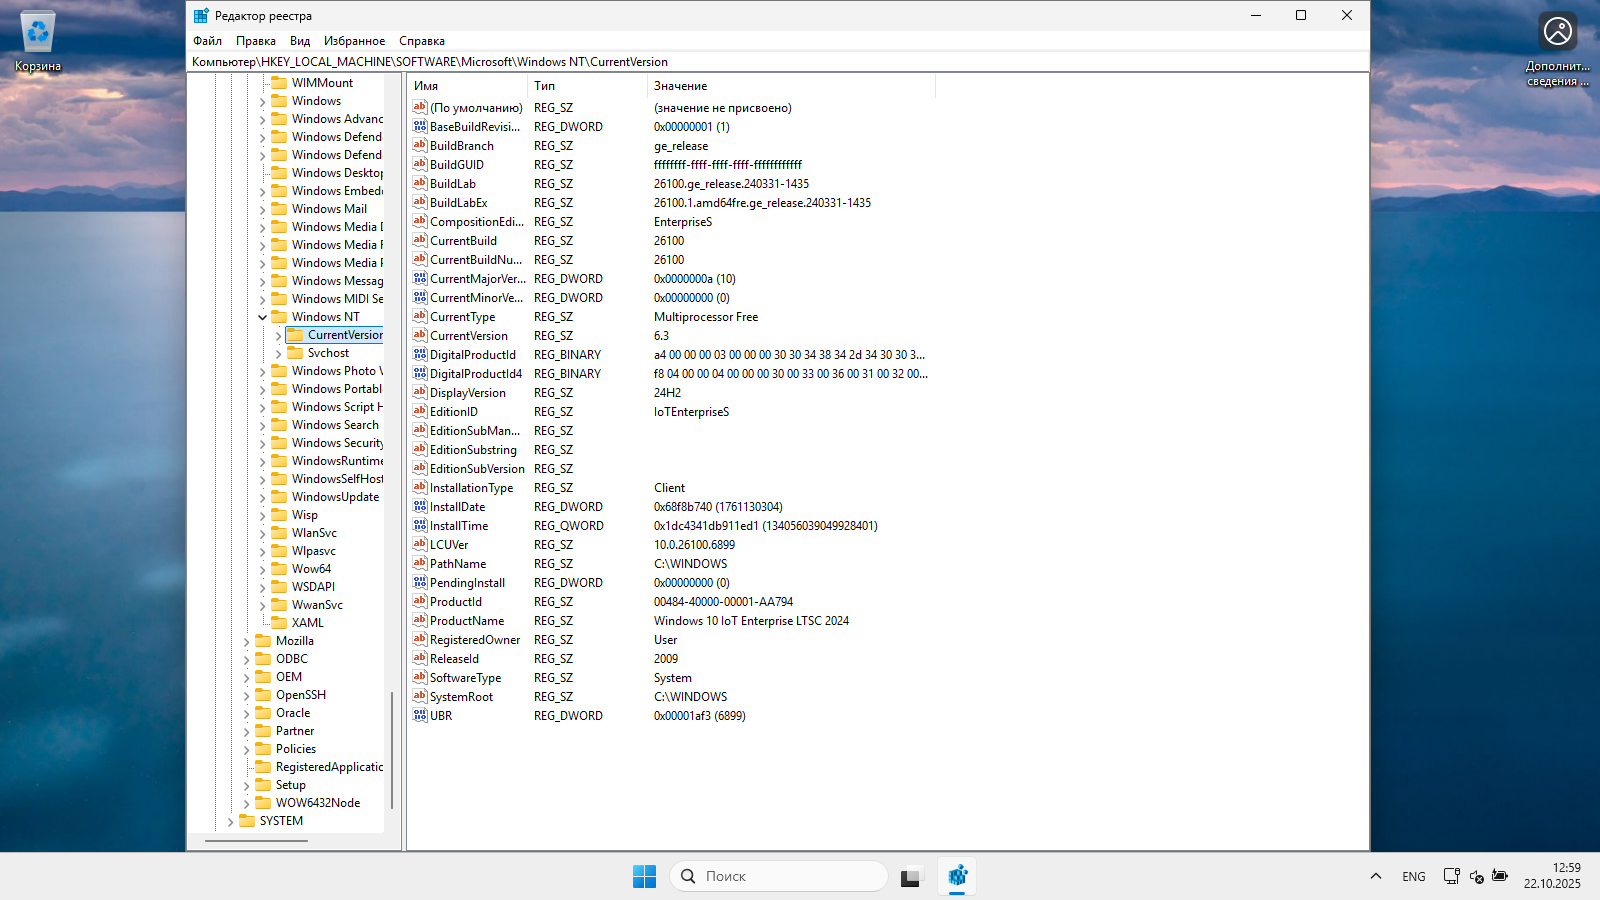
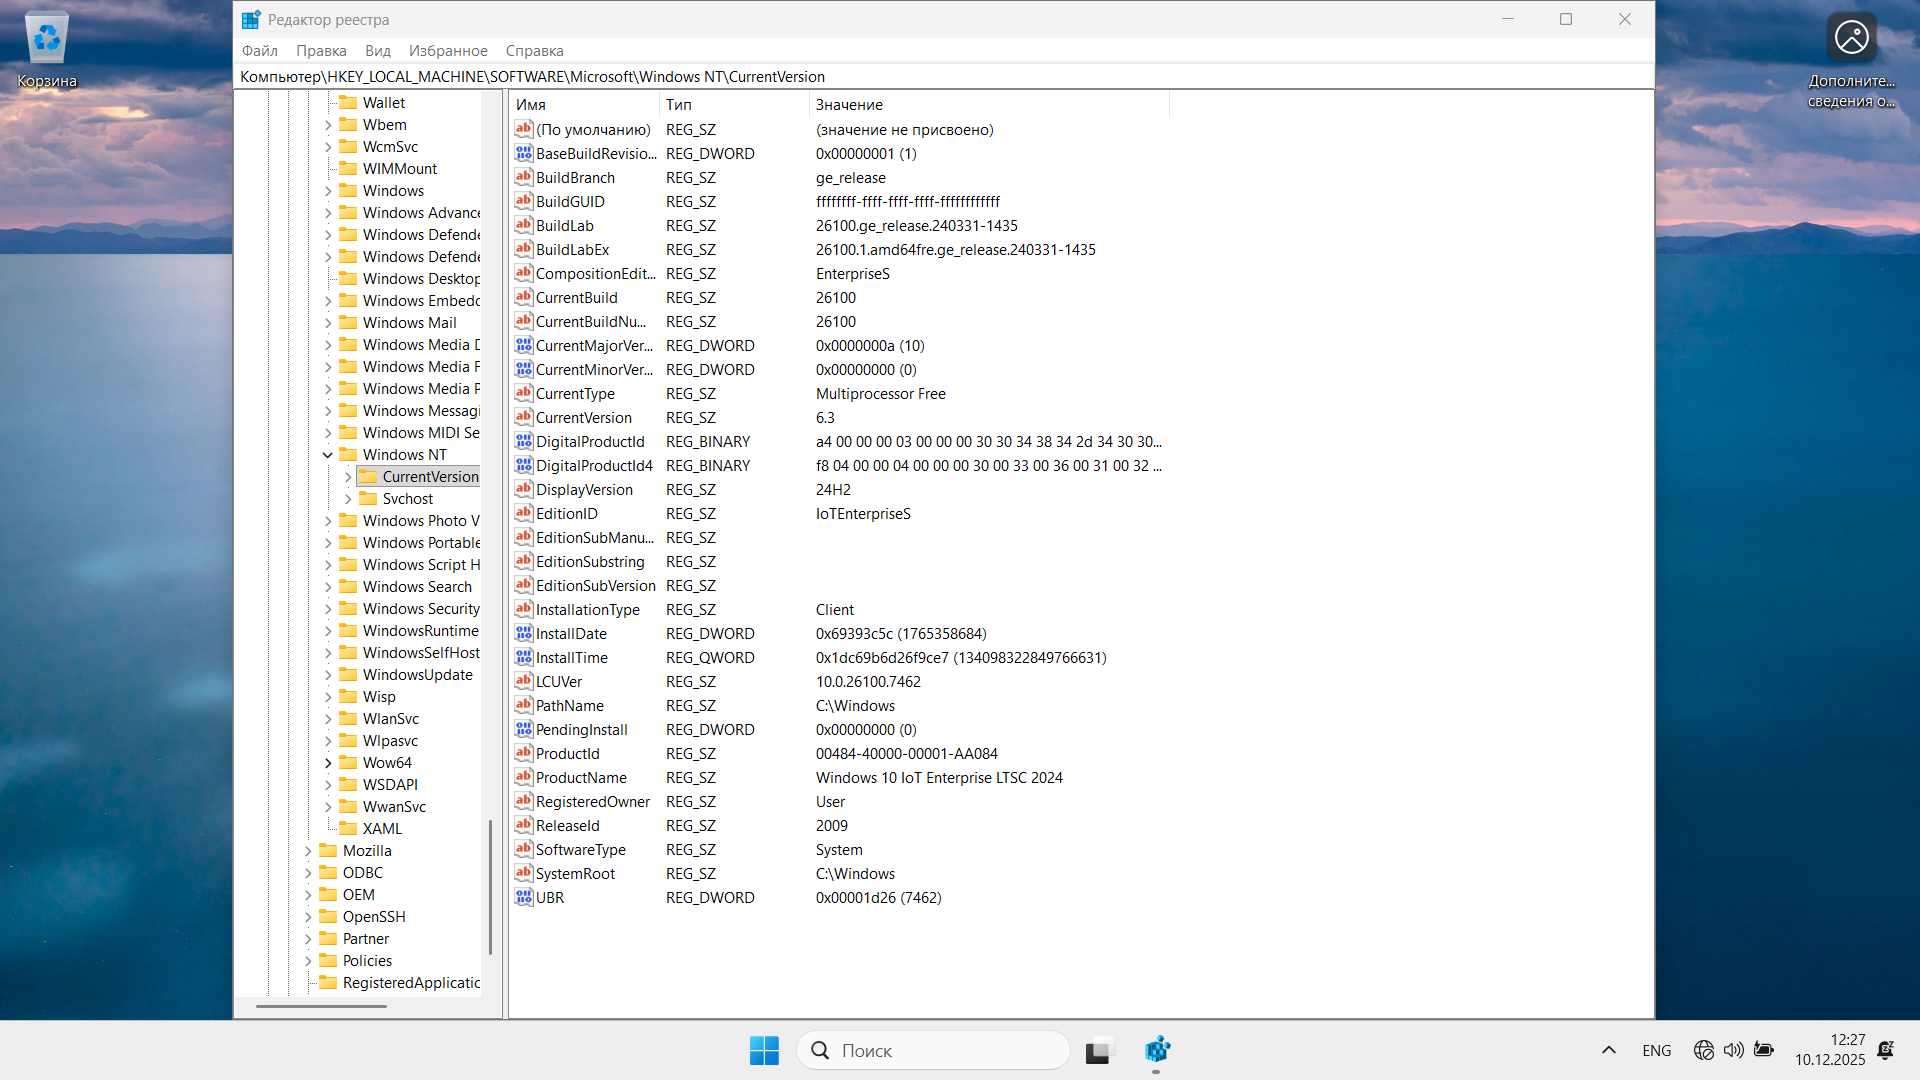
update

Changed region(s): [[0.0, 0.0, 1.0, 0.9956], [0.9375, 0.0, 1.0, 0.1244], [0.0, 0.0, 0.0312, 0.0933]]

diff --git a/index.html b/index.html
@@ -64,7 +64,7 @@
             </a>
             <div class="card-details">
               <span class="lang-en">Language: English<br></span><span class="lang-ru">Язык: Английский<br></span>
-              <span class="lang-en">Update: 26100.6899 (October 2025)<br></span><span class="lang-ru">Обновление: 26100.6899 (Октябрь 2025)<br></span>
+              <span class="lang-en">Update: 26100.7462 (December 2025)<br></span><span class="lang-ru">Обновление: 26100.7462 (Декабрь 2025)<br></span>
               <span class="lang-en">Edition: IoT Enterprise LTSC<br></span><span class="lang-ru">Издание: IoT Enterprise LTSC<br></span>
               <span class="lang-en">Version: 24H2<br></span><span class="lang-ru">Версия: 24H2<br></span>
               <span class="lang-en">Author: somov<br></span><span class="lang-ru">Автор: somov<br></span>
@@ -77,8 +77,8 @@
         </div>
         <div class="card-right">
           <div class="card-actions">
-            <a class="btn" href="https://dl3.somov.org/en-us_windows_11_iot_enterprise_ltsc_2024_x64_26100.6899_by_somov.iso"><span class="lang-en">Download</span><span class="lang-ru">Скачать</span></a>
-            <a class="torrent-link" href="https://dl.somov.org/en-us_windows_11_iot_enterprise_ltsc_2024_x64_26100.6899_by_somov.iso.torrent"><span class="lang-en">Download by torrent</span><span class="lang-ru">Скачать с помощью torrent</span></a>
+            <a class="btn" href="https://dl3.somov.org/en-us_windows_11_iot_enterprise_ltsc_2024_x64_26100.7462_by_somov.iso"><span class="lang-en">Download</span><span class="lang-ru">Скачать</span></a>
+            <a class="torrent-link" href="https://dl.somov.org/en-us_windows_11_iot_enterprise_ltsc_2024_x64_26100.7462_by_somov.iso.torrent"><span class="lang-en">Download by torrent</span><span class="lang-ru">Скачать с помощью torrent</span></a>
           </div>
         </div>
       </section>
@@ -92,7 +92,7 @@
             </a>
             <div class="card-details">
               <span class="lang-en">Language: Russian<br></span><span class="lang-ru">Язык: Русский<br></span>
-              <span class="lang-en">Update: 26100.6899 (October 2025)<br></span><span class="lang-ru">Обновление: 26100.6899 (Октябрь 2025)<br></span>
+              <span class="lang-en">Update: 26100.7462 (December 2025)<br></span><span class="lang-ru">Обновление: 26100.7462 (Декабрь 2025)<br></span>
               <span class="lang-en">Edition: IoT Enterprise LTSC<br></span><span class="lang-ru">Издание: IoT Enterprise LTSC<br></span>
               <span class="lang-en">Version: 24H2<br></span><span class="lang-ru">Версия: 24H2<br></span>
               <span class="lang-en">Author: somov<br></span><span class="lang-ru">Автор: somov<br></span>
@@ -105,8 +105,8 @@
         </div>
         <div class="card-right">
           <div class="card-actions">
-            <a class="btn" href="https://dl3.somov.org/ru-ru_windows_11_iot_enterprise_ltsc_2024_x64_26100.6899_by_somov.iso"><span class="lang-en">Download</span><span class="lang-ru">Скачать</span></a>
-            <a class="torrent-link" href="https://dl.somov.org/ru-ru_windows_11_iot_enterprise_ltsc_2024_x64_26100.6899_by_somov.iso.torrent"><span class="lang-en">Download by torrent</span><span class="lang-ru">Скачать с помощью torrent</span></a>
+            <a class="btn" href="https://dl3.somov.org/ru-ru_windows_11_iot_enterprise_ltsc_2024_x64_26100.7462_by_somov.iso"><span class="lang-en">Download</span><span class="lang-ru">Скачать</span></a>
+            <a class="torrent-link" href="https://dl.somov.org/ru-ru_windows_11_iot_enterprise_ltsc_2024_x64_26100.7462_by_somov.iso.torrent"><span class="lang-en">Download by torrent</span><span class="lang-ru">Скачать с помощью torrent</span></a>
           </div>
         </div>
       </section>
@@ -120,7 +120,7 @@
             </a>
             <div class="card-details">
               <span class="lang-en">Language: English<br></span><span class="lang-ru">Язык: Английский<br></span>
-              <span class="lang-en">Update: 19044.6456 (October 2025)<br></span><span class="lang-ru">Обновление: 19044.6456 (Октябрь 2025)<br></span>
+              <span class="lang-en">Update: 19044.6456 (October 2025) <b>Final</b><br></span><span class="lang-ru">Обновление: 19044.6456 (Октябрь 2025) <b>Финальный</b><br></span>
               <span class="lang-en">Edition: IoT Enterprise LTSC<br></span><span class="lang-ru">Издание: IoT Enterprise LTSC<br></span>
               <span class="lang-en">Version: 21H2<br></span><span class="lang-ru">Версия: 21H2<br></span>
               <span class="lang-en">Author: somov<br></span><span class="lang-ru">Автор: somov<br></span>
@@ -148,7 +148,7 @@
             </a>
             <div class="card-details">
               <span class="lang-en">Language: Russian<br></span><span class="lang-ru">Язык: Русский<br></span>
-              <span class="lang-en">Update: 19044.6456 (October 2025)<br></span><span class="lang-ru">Обновление: 19044.6456 (Октябрь 2025)<br></span>
+              <span class="lang-en">Update: 19044.6456 (October 2025)<b>Final</b><br></span><span class="lang-ru">Обновление: 19044.6456 (Октябрь 2025)<b>Финальный</b><br></span>
               <span class="lang-en">Edition: IoT Enterprise LTSC<br></span><span class="lang-ru">Издание: IoT Enterprise LTSC<br></span>
               <span class="lang-en">Version: 21H2<br></span><span class="lang-ru">Версия: 21H2<br></span>
               <span class="lang-en">Author: somov<br></span><span class="lang-ru">Автор: somov<br></span>

diff --git a/windows-11-en/index.html b/windows-11-en/index.html
@@ -52,7 +52,7 @@
             <div class="card-text"><a href="/" class="return-link"><span class="lang-en"><b>Return to Home</b></span><span class="lang-ru"><b>Вернуться на главную</b></span></a></div>
             <div class="card-text"><span class="lang-en">Language: English</span><span class="lang-ru">Язык: Английский</span></div>
             <div class="card-text"><span class="lang-en">Windows 11 IoT Enterprise LTSC (Long-Term Servicing Channel) is a lightweight version of Windows with long-term support, designed for stable performance on embedded devices and specialized systems. It excludes unnecessary apps, reducing system requirements and making it an ideal solution where reliability and minimal interference are critical.</span><span class="lang-ru">Windows 11 IoT Enterprise LTSC (Long-Term Servicing Channel) — это облегченная версия Windows с долгосрочной поддержкой, разработанная для стабильной работы на встраиваемых устройствах и специализированных системах. Она исключает ненужные приложения, снижая системные требования и делая ее идеальным решением там, где критически важны надежность и минимальное вмешательство.</span></div>
-            <div class="updated"><span class="lang-en"><b>TPM, Secure Boot, and OOBE checks are disabled,<br>Updated to 26100.6899 (October 2025) by somov</b></span><span class="lang-ru"><b>Проверки TPM, Secure Boot и OOBE отключены,<br>Обновлено до 26100.6899 (Октябрь 2025) by somov</b></span></div>
+            <div class="updated"><span class="lang-en"><b>TPM, Secure Boot, and OOBE checks are disabled,<br>Updated to 26100.7462 (December 2025) by somov</b></span><span class="lang-ru"><b>Проверки TPM, Secure Boot и OOBE отключены,<br>Обновлено до 26100.7462 (Декабрь 2025) by somov</b></span></div>
             <div class="card-text"><span class="lang-en"><b>System Requirements:</b></span><span class="lang-ru"><b>Системные требования:</b></span></div>
             <div class="card-text">
               <ol class="marker-list">
@@ -65,13 +65,13 @@
             </div>
             <div class="card-text"><span class="lang-en"><b>Image checksums:</b></span><span class="lang-ru"><b>Контрольные суммы образа:</b></span></div>
             <div class="card-text">
-              <ol class="marker-list"><li><b>CRC32:</b> 084e6c3d</li>
-              <li><b>MD5:</b> a3c0006a68f06181337156750a9ec8a6</li>
-              <li><b>SHA-1:</b> 0dfb51818453b93da18980e401bf294afc3ef8ad</li>
+              <ol class="marker-list"><li><b>CRC32:</b> d8ba186e</li>
+              <li><b>MD5:</b> 475f94e43202d8a6039be86c01aa1704</li>
+              <li><b>SHA-1:</b> dc8ebff8fd8e7330f578b862eab88f6410480868</li>
             </ol></div>
             <div class="button-container">
-            <a class="btn-windows" href="https://dl3.somov.org/en-us_windows_11_iot_enterprise_ltsc_2024_x64_26100.6899_by_somov.iso"><span class="lang-en">Download</span><span class="lang-ru">Скачать</span></a>
-            <a class="torrent-link" href="https://dl.somov.org/en-us_windows_11_iot_enterprise_ltsc_2024_x64_26100.6899_by_somov.iso.torrent"><span class="lang-en">Download by torrent</span><span class="lang-ru">Скачать с помощью torrent</span></a>
+            <a class="btn-windows" href="https://dl3.somov.org/en-us_windows_11_iot_enterprise_ltsc_2024_x64_26100.7462_by_somov.iso"><span class="lang-en">Download</span><span class="lang-ru">Скачать</span></a>
+            <a class="torrent-link" href="https://dl.somov.org/en-us_windows_11_iot_enterprise_ltsc_2024_x64_26100.7462_by_somov.iso.torrent"><span class="lang-en">Download by torrent</span><span class="lang-ru">Скачать с помощью torrent</span></a>
             </div>
   <div class="full-width-section">
     <div class="gallery">

diff --git a/windows-11-ru/index.html b/windows-11-ru/index.html
@@ -52,7 +52,7 @@
             <div class="card-text"><a href="/" class="return-link"><span class="lang-en"><b>Return to Home</b></span><span class="lang-ru"><b>На главную</b></span></a></div>
             <div class="card-text"><span class="lang-en">Language: Russian</span><span class="lang-ru">Язык: Русский</span></div>
             <div class="card-text"><span class="lang-en">Windows 11 IoT Enterprise LTSC (Long-Term Servicing Channel) is a lightweight version of Windows with long-term support, designed for stable performance on embedded devices and specialized systems. It excludes unnecessary apps, reducing system requirements and making it an ideal solution where reliability and minimal interference are critical.</span><span class="lang-ru">Windows 11 IoT Enterprise LTSC (Long-Term Servicing Channel) — это облегчённая версия Windows с долгосрочной поддержкой, разработанная для стабильной работы на встраиваемых устройствах и специализированных системах. Она лишена лишних приложений, что снижает системные требования и делает её идеальным решением, где важны надёжность и минимальное вмешательство.</span></div>
-            <div class="updated"><span class="lang-en"><b>TPM, Secure Boot, and OOBE checks are disabled,<br>Updated to 26100.6899 (October 2025) by somov</b></span><span class="lang-ru"><b>Проверки TPM, Secure Boot и OOBE отключены,<br>Обновлено до 26100.6899 (Октябрь 2025) by somov</b></span></div>
+            <div class="updated"><span class="lang-en"><b>TPM, Secure Boot, and OOBE checks are disabled,<br>Updated to 26100.7462 (December 2025) by somov</b></span><span class="lang-ru"><b>Проверки TPM, Secure Boot и OOBE отключены,<br>Обновлено до 26100.7462 (Декабрь 2025) by somov</b></span></div>
             <div class="card-text"><span class="lang-en"><b>System Requirements:</b></span><span class="lang-ru"><b>Системные требования:</b></span></div>
             <div class="card-text">
               <ol class="marker-list">
@@ -65,13 +65,13 @@
             </div>
             <div class="card-text"><span class="lang-en"><b>Image checksums:</b></span><span class="lang-ru"><b>Контрольные суммы:</b></span></div>
             <div class="card-text">
-              <ol class="marker-list"><li><b>CRC32:</b> 9237c756</li>
-              <li><b>MD5:</b> 53f5bf006a9fe5e5bdc3c6e2e35c589d</li>
-              <li><b>SHA-1:</b> e1311d17b26eea8e33329057197e1f807c2cc6cf</li>
+              <ol class="marker-list"><li><b>CRC32:</b> 293ce850</li>
+              <li><b>MD5:</b> a868d6e61ebbba6d03c3e2e097caae06</li>
+              <li><b>SHA-1:</b> 35042ec5582f0dbf6fdacebf2ef71fbe4230153e</li>
             </ol></div>
             <div class="button-container">
-            <a class="btn-windows" href="https://dl3.somov.org/ru-ru_windows_11_iot_enterprise_ltsc_2024_x64_26100.6899_by_somov.iso"><span class="lang-en">Download</span><span class="lang-ru">Скачать</span></a>
-            <a class="torrent-link" href="https://dl.somov.org/ru-ru_windows_11_iot_enterprise_ltsc_2024_x64_26100.6899_by_somov.iso.torrent"><span class="lang-en">Download by torrent</span><span class="lang-ru">Скачать с помощью torrent</span></a>
+            <a class="btn-windows" href="https://dl3.somov.org/ru-ru_windows_11_iot_enterprise_ltsc_2024_x64_26100.7462_by_somov.iso"><span class="lang-en">Download</span><span class="lang-ru">Скачать</span></a>
+            <a class="torrent-link" href="https://dl.somov.org/ru-ru_windows_11_iot_enterprise_ltsc_2024_x64_26100.7462_by_somov.iso.torrent"><span class="lang-en">Download by torrent</span><span class="lang-ru">Скачать с помощью torrent</span></a>
             </div>
   <div class="full-width-section">
     <div class="gallery">

diff --git a/windows-10-en/index.html b/windows-10-en/index.html
@@ -53,7 +53,7 @@
             <div class="card-text"><a href="/" class="return-link"><span class="lang-en"><b>Return to Home</b></span><span class="lang-ru"><b>Вернуться на главную</b></span></a></div>
             <div class="card-text"><span class="lang-en">Language: English</span><span class="lang-ru">Язык: Английский</span></div>
             <div class="card-text"><span class="lang-en">Windows 10 IoT Enterprise LTSC (Long-Term Servicing Channel) is a lightweight version of Windows with long-term support, designed for stable performance on embedded devices and specialized systems. It excludes unnecessary apps, reducing system requirements and making it an ideal solution where reliability and minimal interference are critical.</span><span class="lang-ru">Windows 10 IoT Enterprise LTSC (Long-Term Servicing Channel) — это облегчённая версия Windows с долгосрочной поддержкой, разработанная для стабильной работы на встраиваемых устройствах и специализированных системах. Она лишена лишних приложений, что снижает системные требования и делает её идеальным решением, где важны надёжность и минимальное вмешательство.</span></div>
-            <div class="updated"><span class="lang-en"><b>Updated to 19044.6456 (October 2025) by somov</b></span><span class="lang-ru"><b>Обновлено до 19044.6456 (Октябрь 2025) by somov</b></span></div>
+            <div class="updated"><span class="lang-en"><b>Updated to 19044.6456 (October 2025) by somov Final</b></span><span class="lang-ru"><b>Обновлено до 19044.6456 (Октябрь 2025) by somov Финальный</b></span></div>
             <div class="card-text"><span class="lang-en"><b>System Requirements:</b></span><span class="lang-ru"><b>Системные требования:</b></span></div>
             <div class="card-text">
               <ol class="marker-list">

diff --git a/windows-10-ru/index.html b/windows-10-ru/index.html
@@ -53,7 +53,7 @@
             <div class="card-text"><a href="/" class="return-link"><span class="lang-en"><b>Return to Home</b></span><span class="lang-ru"><b>На главную</b></span></a></div>
             <div class="card-text"><span class="lang-en">Language: Russian</span><span class="lang-ru">Язык: Русский</span></div>
             <div class="card-text"><span class="lang-en">Windows 10 IoT Enterprise LTSC (Long-Term Servicing Channel) is a lightweight version of Windows with long-term support, designed for stable performance on embedded devices and specialized systems. It excludes unnecessary apps, reducing system requirements and making it an ideal solution where reliability and minimal interference are critical.</span><span class="lang-ru">Windows 10 IoT Enterprise LTSC (Long-Term Servicing Channel) — это облегчённая версия Windows с долгосрочной поддержкой, разработанная для стабильной работы на встраиваемых устройствах и специализированных системах. Она лишена лишних приложений, что снижает системные требования и делает её идеальным решением, где важны надёжность и минимальное вмешательство.</span></div>
-            <div class="updated"><span class="lang-en"><b>Updated to 19044.6456 (October 2025) by somov</b></span><span class="lang-ru"><b>Обновлено до 19044.6456 (Октябрь 2025) by somov</b></span></div>
+            <div class="updated"><span class="lang-en"><b>Updated to 19044.6456 (October 2025) by somov Final</b></span><span class="lang-ru"><b>Обновлено до 19044.6456 (Октябрь 2025) by somov Финальный</b></span></div>
             <div class="card-text"><span class="lang-en"><b>System Requirements:</b></span><span class="lang-ru"><b>Системные требования:</b></span></div>
             <div class="card-text">
               <ol class="marker-list">
